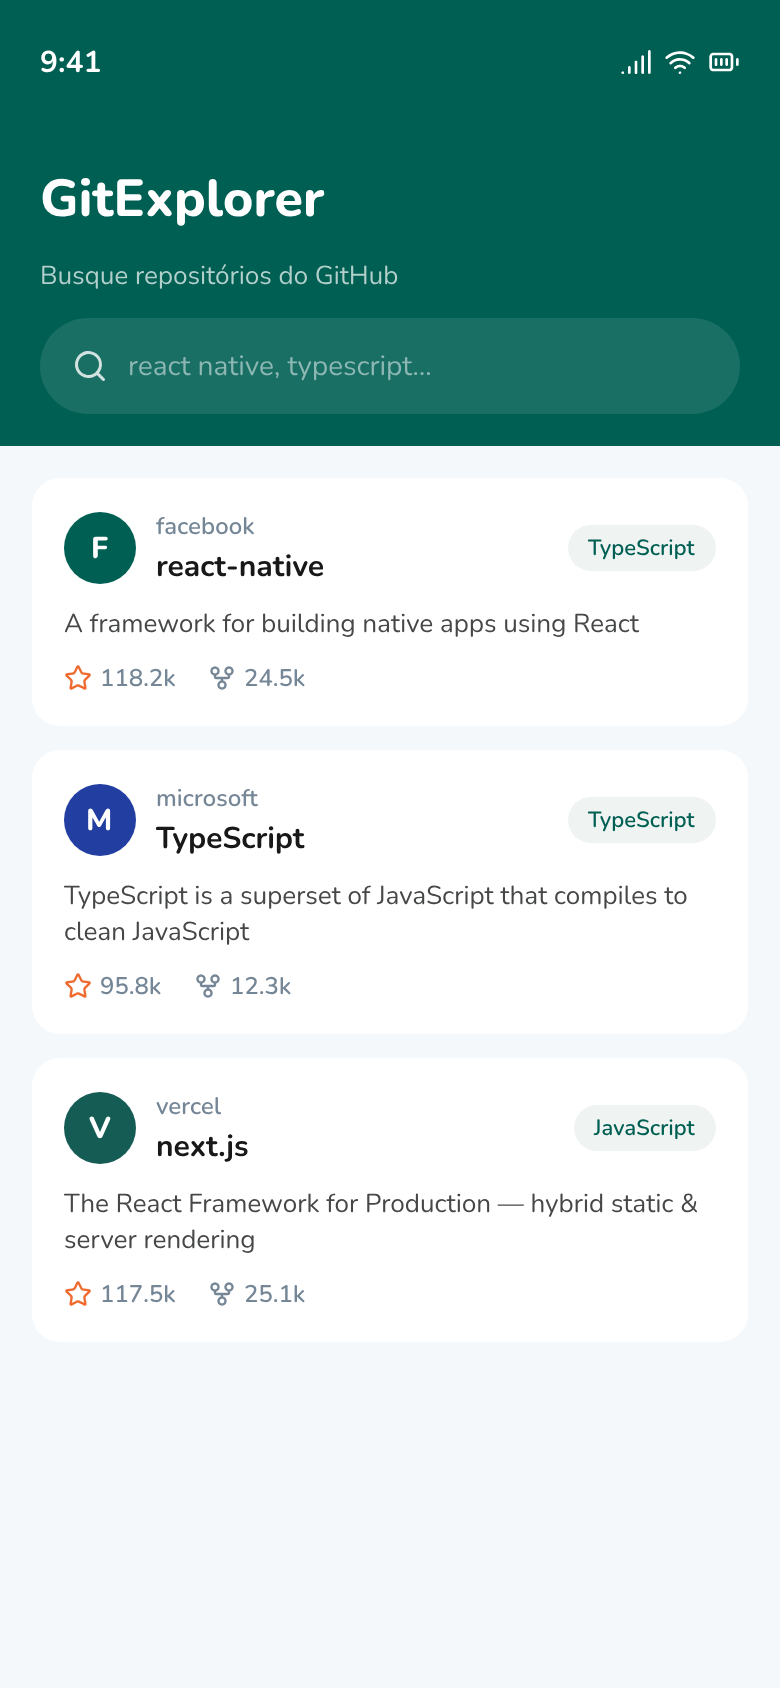
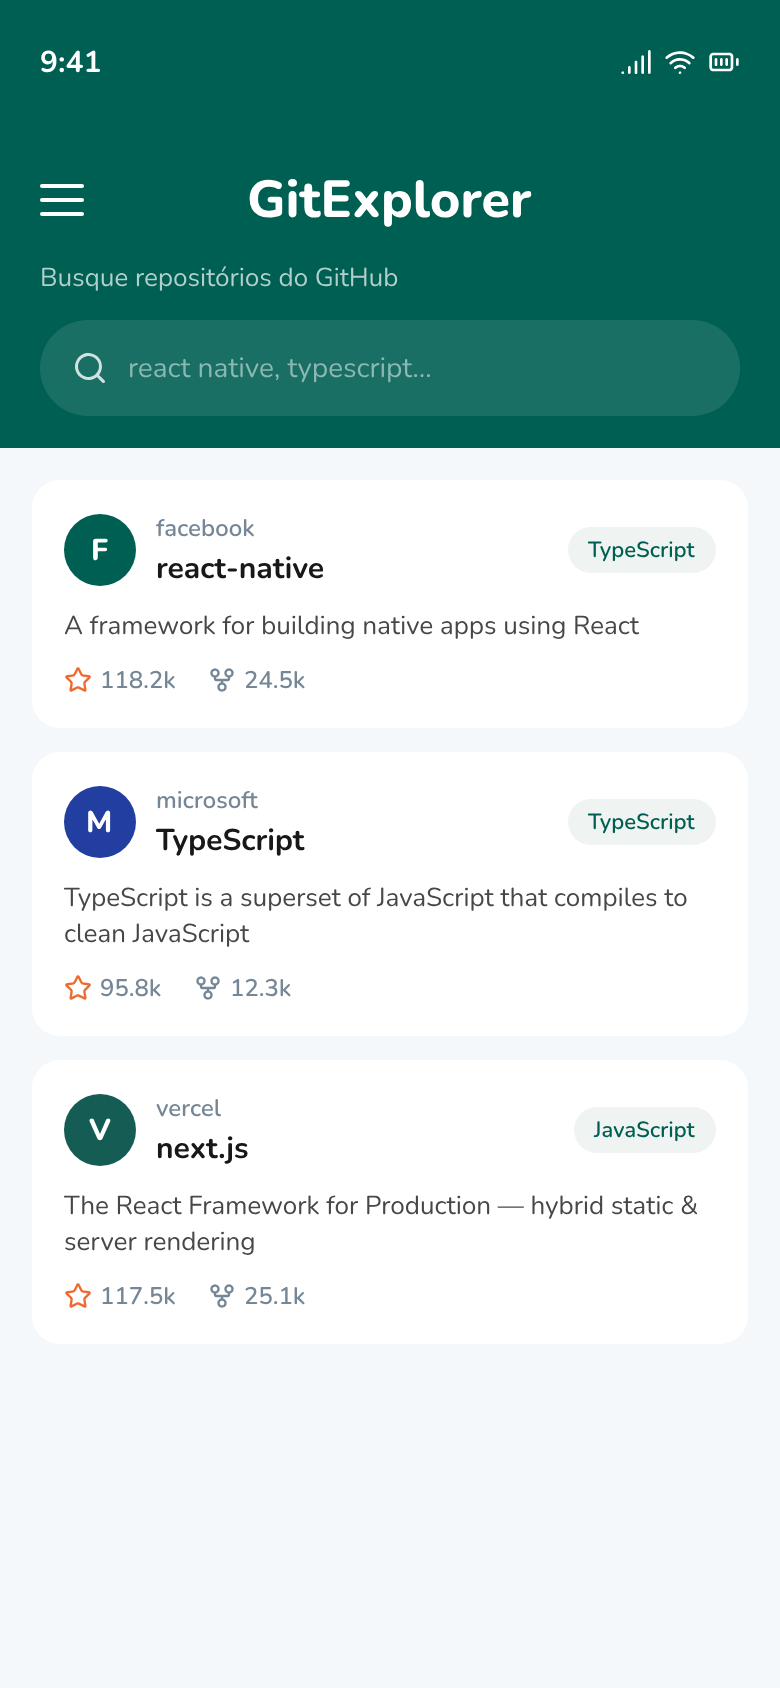
feature: readme adjustments

diff --git a/README.md b/README.md
@@ -21,9 +21,9 @@ App mobile em **React Native + Expo** que integra com a API pública do GitHub, 
 
 Protótipos criados no **Pencil** antes da implementação, seguindo os tokens de cor e tipografia da identidade Alymente.
 
-| Busca | Detalhes | Issues | Design System |
-|:---:|:---:|:---:|:---:|
-| ![Search](./docs/screen-search.png) | ![Repository](./docs/screen-repository.png) | ![Issues](./docs/screen-issues.png) | ![Showcase](./docs/screen-showcase.png) |
+| Busca | Menu Lateral | Detalhes | Issues | Design System |
+|:---:|:---:|:---:|:---:|:---:|
+| ![Search](./docs/screen-search.png) | ![Drawer](./docs/screen-drawer.png) | ![Repository](./docs/screen-repository.png) | ![Issues](./docs/screen-issues.png) | ![Showcase](./docs/screen-showcase.png) |
 
 ---
 
